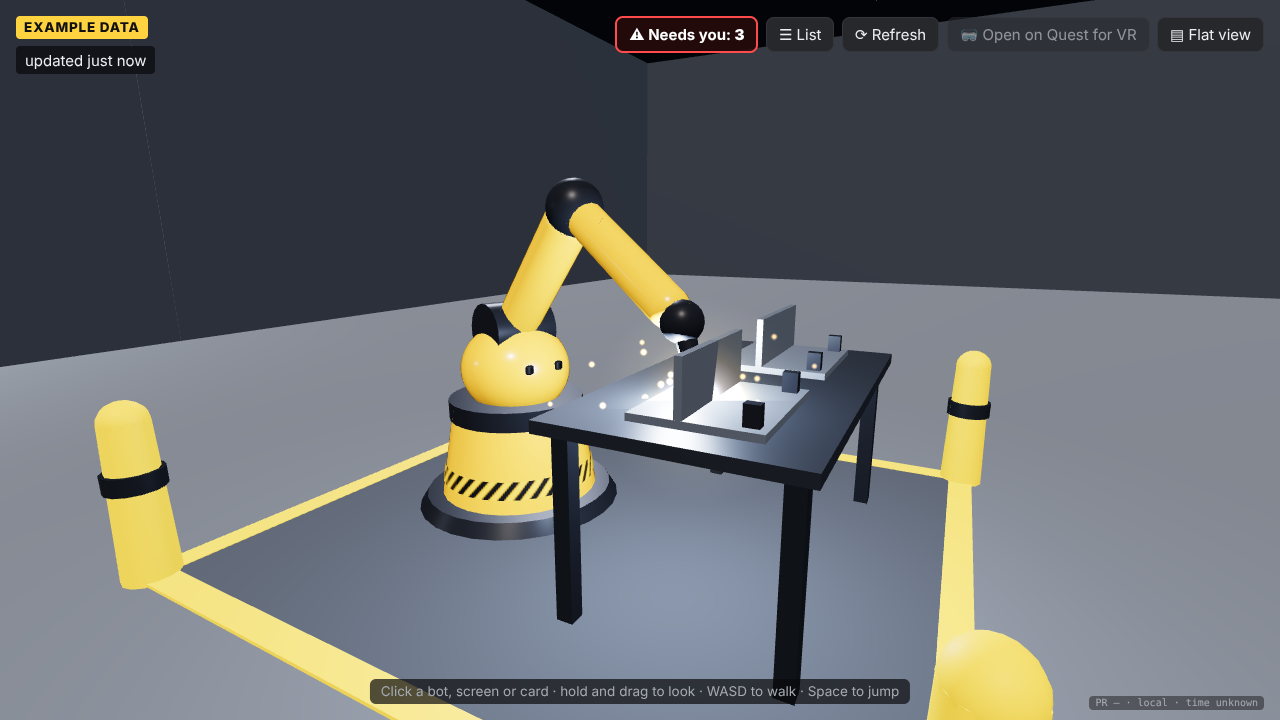
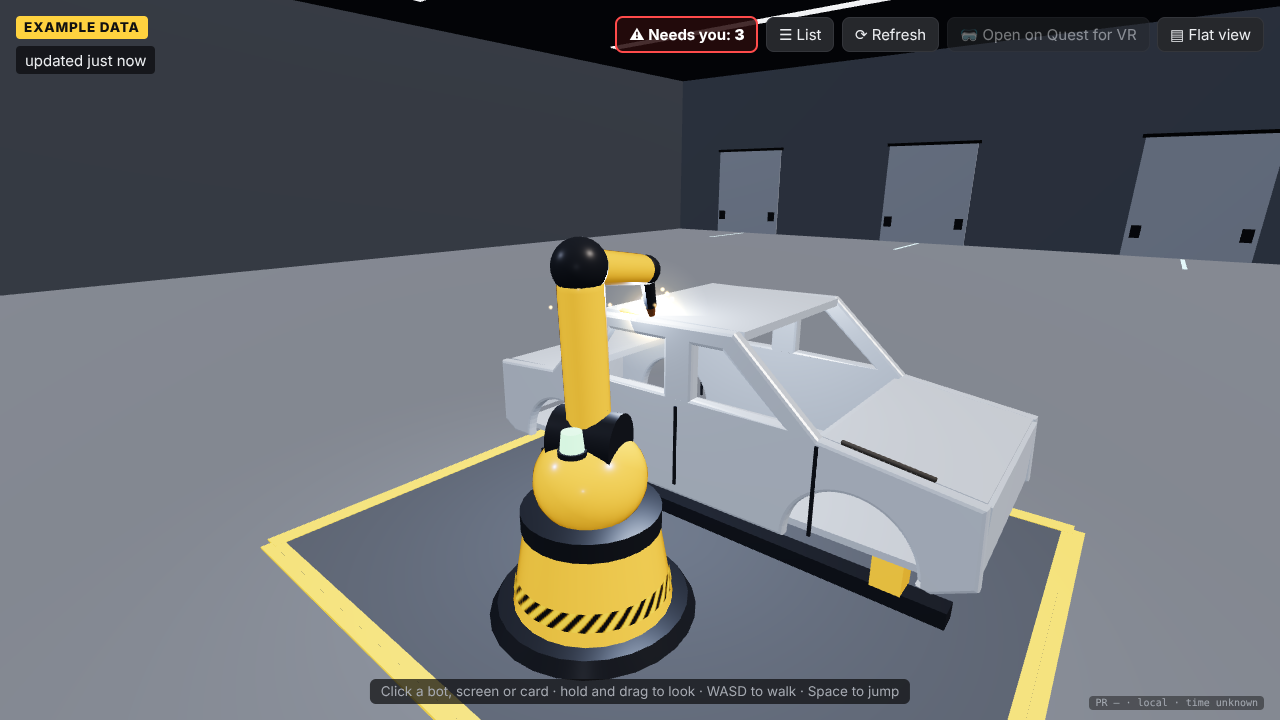
Office welding robot: no eyes, no corner cones, welds a bare-metal car shell
Tim's review of the preview: remove the eyes (and the squint that went with
them), remove the safety cones round the cell, and give it an unpainted car
body (body-in-white) to weld instead of the table and T-joint parts. The arm
now runs a bead along the near roof rail and the near hood edge.

diff --git a/office/weld-robot.js b/office/weld-robot.js
@@ -1,7 +1,8 @@
 /* Welding robot cell for the warehouse (Tim, Nov 22, 2026: "create a welding robot and place it in the factory area with
    movement and sparks when it's working. Same cartoony style as everything else in the environment").
-   A chunky, glossy yellow arm with the bots' slot eyes on its head, a steel table with two T-joint parts, and a weld cycle:
-   swing over a part, lay a glowing bead along the seam with sparks and an arc glow, lift, rest, then do the other part.
+   A chunky, glossy yellow arm with a plain round head (no eyes), beside a bare-metal car shell (body-in-white, before paint) on a
+   yellow jig, and a weld cycle: swing over a seam, lay a glowing bead along it with sparks and an arc glow, lift, rest, then do the
+   other seam. Tim, Nov 22 review: no eyes, no safety cones, and a metal-frame car to weld on.
    It welds while any bot in the office is working (office data), and parks with an amber beacon when the whole office is idle.
    THREE is passed in so the pure parts (cycle timing, arm IK) load in node tests without the import map. */
 
@@ -9,12 +10,22 @@ export const WELD_PHASES = [['approach', 1.2], ['weld', 4.5], ['lift', 1.0], ['p
 export const WELD_CYCLE_S = WELD_PHASES.reduce((s, p) => s + p[1], 0);
 export const ARM = { shoulderY: 0.95, upper: 0.85, fore: 0.8, torch: 0.3, torchAngle: -70 * Math.PI / 180 };
 export const SPARKS = { desktop: 64, phone: 28, rate: 80, gravity: -9.8 };
-/* robot-local layout: base at the origin, the table along +x; seams run along z at the inside corner of each T-joint */
-export const TABLE = { x: 1.3, top: 0.825, w: 1.0, d: 1.8 };
-export const SEAMS = [{ x: 1.272, y: 0.856, z0: -0.72, z1: -0.18 }, { x: 1.272, y: 0.856, z0: 0.18, z1: 0.72 }];
-export const HOME_TIP = { x: 0.6, y: 1.5, z: 0 };
-/* the safety-striped cell floor, robot-local; the office blocks walking inside it */
-export const CELL = { x0: -0.9, x1: 2.2, z0: -1.4, z1: 1.4 };
+/* robot-local layout: base at the origin, the car shell along z on the +x side, nose at +z. Its near side faces the robot.
+   Seams: 0 runs along the near roof rail (roof to side panel), 1 along the near hood edge (hood to fender), sloping down to the nose. */
+export const CAR = { x: 1.43, w: 1.36, l: 3.24, near: 0.75 };
+export const SEAMS = [{ x: 0.80, z0: -0.5, y0: 1.396, z1: 0.25, y1: 1.402 }, { x: 0.80, z0: 0.95, y0: 0.927, z1: 1.4, y1: 0.867 }];
+export const HOME_TIP = { x: 0.6, y: 1.6, z: 0.2 };
+/* the striped cell floor, robot-local; the office blocks walking inside it */
+export const CELL = { x0: -0.9, x1: 2.45, z0: -1.9, z1: 1.9 };
+/* side profile of the shell (u along the car, nose at +u; v up), shared by the drawing and the spark bounce */
+const ROOF = [-0.6, 0.35], HOOD = [0.85, 1.6], TRUNK = [-1.6, -1.05];
+const hoodY = u => 0.92 - (u - 0.85) * 0.1333;
+export function carTopAt(z) { // top surface height under robot-local z, or the floor pan where the glass would be
+  if (z >= ROOF[0] && z <= ROOF[1]) return 1.395;
+  if (z >= HOOD[0] && z <= HOOD[1]) return hoodY(z) + 0.015;
+  if (z >= TRUNK[0] && z <= TRUNK[1]) return 0.895;
+  return 0.42;
+}
 
 /* Where the cycle is at time t (seconds since the robot started working). */
 export function weldPhase(t) {
@@ -29,7 +40,7 @@ const lerp3 = (a, b, k) => ({ x: a.x + (b.x - a.x) * k, y: a.y + (b.y - a.y) * k
 
 /* Torch-tip target for a phase: hover over the seam, weld along it with a small weave, lift away, rest at home. */
 export function tipTarget(ph, t) {
-  const s = SEAMS[ph.seam], a = { x: s.x, y: s.y, z: s.z0 }, b = { x: s.x, y: s.y, z: s.z1 }, up = p => ({ x: p.x - 0.05, y: p.y + 0.28, z: p.z });
+  const s = SEAMS[ph.seam], a = { x: s.x, y: s.y0, z: s.z0 }, b = { x: s.x, y: s.y1, z: s.z1 }, up = p => ({ x: p.x - 0.05, y: p.y + 0.28, z: p.z });
   if (ph.phase === 'approach') return ph.k < 0.7 ? lerp3(HOME_TIP, up(a), smooth(ph.k / 0.7)) : lerp3(up(a), a, smooth((ph.k - 0.7) / 0.3));
   if (ph.phase === 'weld') { const p = lerp3(a, b, ph.k); p.x += 0.006 * Math.sin(t * 22); return p; }
   if (ph.phase === 'lift') return ph.k < 0.3 ? lerp3(b, up(b), smooth(ph.k / 0.3)) : lerp3(up(b), HOME_TIP, smooth((ph.k - 0.3) / 0.7));
@@ -67,10 +78,9 @@ export function makeWeldRobot(THREE, opts = {}) {
     body: new THREE.MeshPhysicalMaterial({ color: 0xffb21f, roughness: 0.28, clearcoat: low ? 0 : 0.8, clearcoatRoughness: 0.15 }),
     joint: new THREE.MeshStandardMaterial({ color: 0x2a2d33, roughness: 0.35, metalness: 0.4 }),
     steel: new THREE.MeshStandardMaterial({ color: 0x8b939d, roughness: 0.4, metalness: 0.7 }),
-    tableTop: new THREE.MeshStandardMaterial({ color: 0x3c4148, roughness: 0.5, metalness: 0.6 }),
+    bare: new THREE.MeshStandardMaterial({ color: 0xc3cad2, roughness: 0.34, metalness: 0.45 }), // unpainted body steel
     copper: new THREE.MeshStandardMaterial({ color: 0xd9894a, roughness: 0.3, metalness: 0.8 }),
     black: new THREE.MeshStandardMaterial({ color: 0x0b0b0c, roughness: 0.25 }),
-    white: new THREE.MeshStandardMaterial({ color: 0xf4f4f4, roughness: 0.4 }),
     stripe: new THREE.MeshStandardMaterial({ color: 0xffc21a, roughness: 0.6, emissive: 0x6a4a00, emissiveIntensity: 0.4 }),
     mat: new THREE.MeshStandardMaterial({ color: 0x45494f, roughness: 0.95 }),
     beacon: new THREE.MeshStandardMaterial({ color: 0x3ddc84, emissive: 0x3ddc84, emissiveIntensity: 1.6, roughness: 0.3 })
@@ -82,25 +92,36 @@ export function makeWeldRobot(THREE, opts = {}) {
   add(new THREE.BoxGeometry(cw, 0.012, cd), M.mat, cx, 0.006, 0);
   for (const z of [CELL.z0, CELL.z1]) add(new THREE.BoxGeometry(cw, 0.016, 0.12), M.stripe, cx, 0.008, z);
   for (const x of [CELL.x0, CELL.x1]) add(new THREE.BoxGeometry(0.12, 0.016, cd), M.stripe, x, 0.008, 0);
-  for (const [x, z] of [[CELL.x0, CELL.z0], [CELL.x0, CELL.z1], [CELL.x1, CELL.z0], [CELL.x1, CELL.z1]]) { // chunky corner bollards
-    add(new THREE.CylinderGeometry(0.09, 0.11, 0.7, 14), M.stripe, x, 0.35, z); add(new THREE.SphereGeometry(0.09, 14, 10), M.stripe, x, 0.7, z);
-    add(new THREE.CylinderGeometry(0.112, 0.112, 0.08, 14), M.joint, x, 0.45, z);
-  }
 
-  /* ---- table and parts ---- */
-  add(new THREE.BoxGeometry(TABLE.w, 0.05, TABLE.d), M.tableTop, TABLE.x, TABLE.top - 0.025, 0);
-  for (const dx of [-0.42, 0.42]) for (const dz of [-0.8, 0.8]) add(new THREE.BoxGeometry(0.07, TABLE.top - 0.05, 0.07), M.joint, TABLE.x + dx, (TABLE.top - 0.05) / 2, dz);
-  for (const s of SEAMS) {
-    const len = s.z1 - s.z0 + 0.06, zc = (s.z0 + s.z1) / 2;
-    add(new THREE.BoxGeometry(0.5, 0.03, len), M.steel, TABLE.x + 0.05, TABLE.top + 0.015, zc); // base plate
-    add(new THREE.BoxGeometry(0.03, 0.22, len), M.steel, TABLE.x, TABLE.top + 0.14, zc);         // upright
-    for (const dz of [-len / 2 + 0.06, len / 2 - 0.06]) add(new THREE.BoxGeometry(0.06, 0.08, 0.04), M.joint, TABLE.x + 0.24, TABLE.top + 0.07, zc + dz); // clamps
-  }
+  /* ---- car shell: bare steel body-in-white on a yellow jig ---- */
+  const W = CAR.w, cxC = CAR.x, prof = new THREE.Shape();
+  prof.moveTo(-1.6, 0.42); prof.lineTo(-1.6, 0.86); prof.lineTo(-1.05, 0.90); prof.lineTo(-0.6, 1.36); prof.lineTo(0.35, 1.38);
+  prof.lineTo(0.85, 0.92); prof.lineTo(1.6, 0.82); prof.lineTo(1.62, 0.45); prof.lineTo(1.45, 0.36); prof.lineTo(1.41, 0.36);
+  prof.absarc(1.05, 0.36, 0.36, 0, Math.PI, false); prof.lineTo(-0.64, 0.36); prof.absarc(-1.0, 0.36, 0.36, 0, Math.PI, false);
+  prof.lineTo(-1.5, 0.36); prof.closePath();
+  for (const pts of [[[0.08, 0.95], [0.70, 0.95], [0.30, 1.31], [0.08, 1.31]], [[-0.08, 0.95], [-0.08, 1.31], [-0.52, 1.31], [-0.78, 0.95]]])
+    prof.holes.push(new THREE.Path(pts.map(([u, v]) => new THREE.Vector2(u, v)))); // door window openings leave the A, B and C pillars
+  const sideG = new THREE.ExtrudeGeometry(prof, { depth: 0.04, bevelEnabled: true, bevelThickness: 0.02, bevelSize: 0.02, bevelSegments: low ? 1 : 2, curveSegments: low ? 8 : 14 });
+  sideG.rotateY(-Math.PI / 2); // profile u -> z, extrusion -> -x
+  const nearX = CAR.near + 0.02, farX = cxC + W / 2 - 0.02, inner0 = nearX + 0.02, inner1 = farX - 0.06, iw = inner1 - inner0, icx = (inner0 + inner1) / 2;
+  add(sideG, M.bare, nearX, 0, 0); add(sideG, M.bare, farX, 0, 0);
+  add(new THREE.BoxGeometry(iw, 0.05, ROOF[1] - ROOF[0] + 0.06), M.bare, icx, 1.37, (ROOF[0] + ROOF[1]) / 2);
+  const panel = (u0, u1, y0, y1, th) => { const len = Math.hypot(u1 - u0, y1 - y0), m = add(new THREE.BoxGeometry(iw, th, len), M.bare, icx, (y0 + y1) / 2 - th / 2, (u0 + u1) / 2); m.rotation.x = -Math.atan2(y1 - y0, u1 - u0); return m; };
+  panel(HOOD[0], HOOD[1], hoodY(HOOD[0]) + 0.015, hoodY(HOOD[1]) + 0.015, 0.04);  // hood
+  panel(TRUNK[0], TRUNK[1], 0.88, 0.91, 0.04);                                         // trunk lid
+  add(new THREE.BoxGeometry(iw, 0.04, 3.0), M.bare, icx, 0.4, 0);                       // floor pan
+  add(new THREE.BoxGeometry(iw, 0.37, 0.05), M.bare, icx, 0.635, 1.6);                  // nose panel
+  add(new THREE.BoxGeometry(iw, 0.44, 0.05), M.bare, icx, 0.64, -1.6);                  // tail panel
+  for (const u of [0.85, -1.05]) add(new THREE.BoxGeometry(iw, 0.05, 0.08), M.bare, icx, 0.89, u); // cowl and rear window sill
+  for (const x of [nearX - 0.065, farX + 0.025]) for (const u of [0.86, 0.0, -0.76]) // door cut lines
+    add(new THREE.BoxGeometry(0.012, 0.5, 0.018), M.joint, x, 0.66, u);
+  for (const dx of [-0.42, 0.42]) add(new THREE.BoxGeometry(0.12, 0.1, 3.0), M.joint, cxC + dx, 0.06, 0); // jig rails
+  for (const dx of [-0.42, 0.42]) for (const u of [-1.15, 1.2]) { add(new THREE.BoxGeometry(0.16, 0.26, 0.16), M.body, cxC + dx, 0.24, u); add(new THREE.CylinderGeometry(0.03, 0.03, 0.05, 10), M.joint, cxC + dx, 0.39, u); }
   const beads = SEAMS.map(s => { // weld bead: grows along the seam, glows hot, then cools
-    const g = new THREE.CapsuleGeometry(0.011, 1, 3, 8); g.rotateX(Math.PI / 2); g.translate(0, 0, 0.5);
+    const g = new THREE.CapsuleGeometry(0.014, 1, 3, 8); g.rotateX(Math.PI / 2); g.translate(0, 0, 0.5);
     const m = new THREE.MeshStandardMaterial({ color: 0x55504a, roughness: 0.4, metalness: 0.6, emissive: 0xff6a10, emissiveIntensity: 0 });
-    const mesh = add(g, m, s.x, s.y, s.z0); mesh.scale.set(1, 1, 1e-3); mesh.visible = false;
-    return { mesh, m, len: s.z1 - s.z0, heat: 0 };
+    const mesh = add(g, m, s.x, s.y0, s.z0); mesh.rotation.x = -Math.atan2(s.y1 - s.y0, s.z1 - s.z0); mesh.scale.set(1, 1, 1e-3); mesh.visible = false;
+    return { mesh, m, len: Math.hypot(s.z1 - s.z0, s.y1 - s.y0), heat: 0 };
   });
 
   /* ---- robot ---- */
@@ -117,10 +138,6 @@ export function makeWeldRobot(THREE, opts = {}) {
   const turn = new THREE.Group(); turn.position.y = 0.54; root.add(turn); // yaws to face the work
   add(new THREE.CylinderGeometry(0.36, 0.36, 0.1, 28), M.joint, 0, 0.0, 0, turn);
   const head = add(new THREE.SphereGeometry(0.3, 28, 20), M.body, 0, 0.2, 0, turn); head.scale.set(1, 0.85, 0.95);
-  // the bots' face: tall slot eyes with a white shine, on the side facing the work
-  const eyeG = new THREE.CapsuleGeometry(1, 2.9, 8, 16), shineG = new THREE.SphereGeometry(1, 8, 6);
-  const eyes = [-1, 1].map(sz => { const e = add(eyeG, M.black, 0.29, 0.25, sz * 0.085, turn); e.rotation.y = Math.PI / 2; e.scale.set(0.022, 0.028, 0.012); e.userData.sy = 0.028;
-    const sh = add(shineG, M.white, 0.303, 0.275, sz * 0.085 - 0.01, turn); sh.scale.set(0.009, 0.013, 0.009); return { e, sh }; });
   const beaconMesh = add(new THREE.CylinderGeometry(0.05, 0.06, 0.1, 16), M.beacon, -0.18, 0.47, 0, turn);
   add(new THREE.CylinderGeometry(0.07, 0.07, 0.025, 16), M.joint, -0.18, 0.415, 0, turn);
   const shoulder = new THREE.Group(); shoulder.position.y = ARM.shoulderY - 0.54; turn.add(shoulder);
@@ -152,7 +169,7 @@ export function makeWeldRobot(THREE, opts = {}) {
   /* ---- sparks: one pooled Points object, additive, round dots; dead sparks sit at alpha 0 (black) ---- */
   const pos = new Float32Array(maxSparks * 3), col = new Float32Array(maxSparks * 3), vel = new Float32Array(maxSparks * 3), life = new Float32Array(maxSparks), age = new Float32Array(maxSparks);
   const sg = new THREE.BufferGeometry(); sg.setAttribute('position', new THREE.BufferAttribute(pos, 3)); sg.setAttribute('color', new THREE.BufferAttribute(col, 3));
-  sg.boundingSphere = new THREE.Sphere(new THREE.Vector3(TABLE.x, 1, 0), 3.5);
+  sg.boundingSphere = new THREE.Sphere(new THREE.Vector3(CAR.x, 1, 0), 3.5);
   const dotTex = (() => { if (!hasDoc) return null; const c = document.createElement('canvas'); c.width = c.height = 32; const x = c.getContext('2d'), g = x.createRadialGradient(16, 16, 0, 16, 16, 16);
     g.addColorStop(0, 'rgba(255,255,255,1)'); g.addColorStop(0.45, 'rgba(255,255,255,0.8)'); g.addColorStop(1, 'rgba(255,255,255,0)'); x.fillStyle = g; x.fillRect(0, 0, 32, 32); const t = new THREE.CanvasTexture(c); return t; })();
   const sparks = new THREE.Points(sg, new THREE.PointsMaterial({ size: low ? 0.075 : 0.06, map: dotTex, vertexColors: true, transparent: true, blending: THREE.AdditiveBlending, depthWrite: false, toneMapped: false, sizeAttenuation: true }));
@@ -170,7 +187,7 @@ export function makeWeldRobot(THREE, opts = {}) {
     if (i < 0) return;
     const a = rnd() * Math.PI * 2, up = 0.8 + rnd() * 1.8, out = 0.6 + rnd() * 1.6;
     pos[i * 3] = at.x; pos[i * 3 + 1] = at.y + 0.01; pos[i * 3 + 2] = at.z;
-    vel[i * 3] = Math.cos(a) * out - 0.6; vel[i * 3 + 1] = up; vel[i * 3 + 2] = Math.sin(a) * out; // a little bias away from the upright plate
+    vel[i * 3] = Math.cos(a) * out - 0.6; vel[i * 3 + 1] = up; vel[i * 3 + 2] = Math.sin(a) * out; // a little bias out, away from the body side
     age[i] = 0; life[i] = 0.45 + rnd() * 0.5;
   }
   function stepSparks(dt, emitting, at) {
@@ -181,7 +198,7 @@ export function makeWeldRobot(THREE, opts = {}) {
       age[i] += dt; alive++;
       vel[i * 3 + 1] += SPARKS.gravity * dt;
       let x = pos[i * 3] + vel[i * 3] * dt, y = pos[i * 3 + 1] + vel[i * 3 + 1] * dt, z = pos[i * 3 + 2] + vel[i * 3 + 2] * dt;
-      const onTable = Math.abs(x - TABLE.x) < TABLE.w / 2 && Math.abs(z) < TABLE.d / 2, floor = onTable ? TABLE.top + 0.005 : 0.015;
+      const onCar = x > CAR.near && x < CAR.x + CAR.w / 2 && Math.abs(z) < CAR.l / 2, floor = onCar ? carTopAt(z) : 0.015;
       if (y < floor && vel[i * 3 + 1] < 0) { y = floor; vel[i * 3 + 1] *= -0.3; vel[i * 3] *= 0.5; vel[i * 3 + 2] *= 0.5; }
       pos[i * 3] = x; pos[i * 3 + 1] = y; pos[i * 3 + 2] = z;
       const k = Math.min(1, age[i] / life[i]), fade = 1 - k * k; // yellow -> orange -> gone
@@ -195,7 +212,7 @@ export function makeWeldRobot(THREE, opts = {}) {
     const working = !!s.working, reduced = !!s.reduced;
     t = advanceClock(t, dt, working);
     if (s.camera) { // off screen or far away: keep the clock, skip the posing and the particles
-      root.updateWorldMatrix(true, false); sphere.set(mid.set(TABLE.x / 2, 1, 0).applyMatrix4(root.matrixWorld), 4);
+      root.updateWorldMatrix(true, false); sphere.set(mid.set(CAR.x / 2, 1, 0).applyMatrix4(root.matrixWorld), 4);
       pv.multiplyMatrices(s.camera.projectionMatrix, s.camera.matrixWorldInverse); frustum.setFromProjectionMatrix(pv);
       const vis = frustum.intersectsSphere(sphere) && sphere.center.distanceTo(s.camera.position) < 45;
       if (!vis) { if (wasVisible) { arc.visible = halo.visible = false; if (light) light.intensity = 0; age.fill(9); stepSparks(0, false); } wasVisible = false; return { visible: false }; }
@@ -219,8 +236,7 @@ export function makeWeldRobot(THREE, opts = {}) {
     if (welding) { arc.position.copy(tipLocal); halo.position.copy(tipLocal); arc.scale.setScalar(0.2 + 0.12 * flick); halo.scale.setScalar(0.5 + 0.25 * flick); }
     if (light) { light.position.set(tipLocal.x - 0.1, tipLocal.y + 0.15, tipLocal.z); light.intensity = welding ? 4 + 3 * flick : 0; }
     stepSparks(Math.min(dt, 0.05), welding && !reduced, tipLocal);
-    // squint at the arc; beacon green while the office works, amber when parked
-    for (const { e, sh } of eyes) { e.scale.y = e.userData.sy * (welding ? 0.35 : 1); sh.visible = !welding; }
+    // beacon green while the office works, amber when parked
     M.beacon.color.setHex(working ? 0x3ddc84 : 0xffb020); M.beacon.emissive.setHex(working ? 0x3ddc84 : 0xffb020);
     M.beacon.emissiveIntensity = working ? 1.2 + 0.6 * Math.max(0, Math.sin(t * 6)) : 0.9;
     return { visible: true, phase: ph.phase, seam: ph.seam, welding, parked, sparks: alive };

diff --git a/tests/office-weld-robot.test.js b/tests/office-weld-robot.test.js
@@ -16,7 +16,7 @@ test('the cycle approaches, welds, lifts, rests, and alternates parts', async ()
 test('the arm IK puts the torch tip on every point of both seams and at home', async () => {
   const [W] = await load();
   for (const s of W.SEAMS) for (let k = 0; k <= 1; k += 0.1) {
-    const p = { x: s.x, y: s.y, z: s.z0 + (s.z1 - s.z0) * k }, q = W.armTip(W.solveArm(p));
+    const p = { x: s.x, y: s.y0 + (s.y1 - s.y0) * k, z: s.z0 + (s.z1 - s.z0) * k }, q = W.armTip(W.solveArm(p));
     assert.ok(Math.hypot(q.x - p.x, q.y - p.y, q.z - p.z) < 1e-6, `seam point ${JSON.stringify(p)} reached`);
   }
   for (let t = 0; t < W.WELD_CYCLE_S * 2; t += 0.05) { const p = W.tipTarget(W.weldPhase(t), t), q = W.armTip(W.solveArm(p));
@@ -55,4 +55,16 @@ test('the cell sits in the warehouse, clear of the glass doors, the walkway to t
   assert.ok(c.x0 > 12 + 3 && c.x1 < 48 - 3 && c.z0 > -27 + 1, 'inside the warehouse, off the walls and the dock lane');
   assert.ok(c.z1 < 0.1 - 3, 'at least 3 m clear of the door-to-dock walkway');
   assert.ok(c.z1 < 13.2 - 1.25 - 3, 'nowhere near the case shelf');
+});
+
+test('Tim\'s Nov 22 review: no eyes, no safety cones, and it welds a bare-metal car shell', async () => {
+  const src = fs.readFileSync(path.join(__dirname, '../office/weld-robot.js'), 'utf8');
+  assert.doesNotMatch(src, /eyeG|shineG|of eyes/, 'no eye or shine meshes and no squint');
+  assert.doesNotMatch(src, /bollard|TABLE\./, 'no corner cones and no welding table');
+  const [W] = await load();
+  for (const s of W.SEAMS) { // both seams sit on the shell's near side, at its top surface
+    assert.ok(Math.abs(s.x - W.CAR.near) < 0.1, 'seam on the near side');
+    for (const k of [0, 0.5, 1]) { const z = s.z0 + (s.z1 - s.z0) * k, y = s.y0 + (s.y1 - s.y0) * k; assert.ok(Math.abs(y - W.carTopAt(z)) < 0.03, 'seam on the body top at z=' + z); }
+  }
+  const c = W.CELL; assert.ok(c.x1 > W.CAR.x + W.CAR.w / 2 && c.z1 > W.CAR.l / 2 && c.z0 < -W.CAR.l / 2, 'the car sits inside the blocked cell');
 });

diff --git a/office/office.js b/office/office.js
@@ -1157,7 +1157,7 @@ function buildWorld() {
   /* Tim Nov 22: a cartoony welding robot cell in the warehouse (office/weld-robot.js), 9 m in from the glass doors and left of the
      door-to-dock walkway. It welds while any bot is working and parks with an amber beacon when the office is idle. */
   const WELD_POS = { x: WH.x0 + 9, z: -8 }, WELD_SCALE = 1.25, weldBot = makeWeldRobot(THREE, { low: LOW, light: !LOW });
-  weldBot.group.position.set(WELD_POS.x, 0, WELD_POS.z); weldBot.group.scale.setScalar(WELD_SCALE); scene.add(weldBot.group); // table on the far side (+x): seen in profile from the walkway
+  weldBot.group.position.set(WELD_POS.x, 0, WELD_POS.z); weldBot.group.scale.setScalar(WELD_SCALE); scene.add(weldBot.group); // car shell on the far side (+x): seen in profile from the walkway
   { const c = weldBot.cell, k = WELD_SCALE; block(WELD_POS.x + k * (c.x0 + c.x1) / 2, WELD_POS.z + k * (c.z0 + c.z1) / 2, k * (c.x1 - c.x0) / 2, k * (c.z1 - c.z0) / 2, false, 'weldcell'); }
   let rosterKey = '';
   function syncDesks() {
